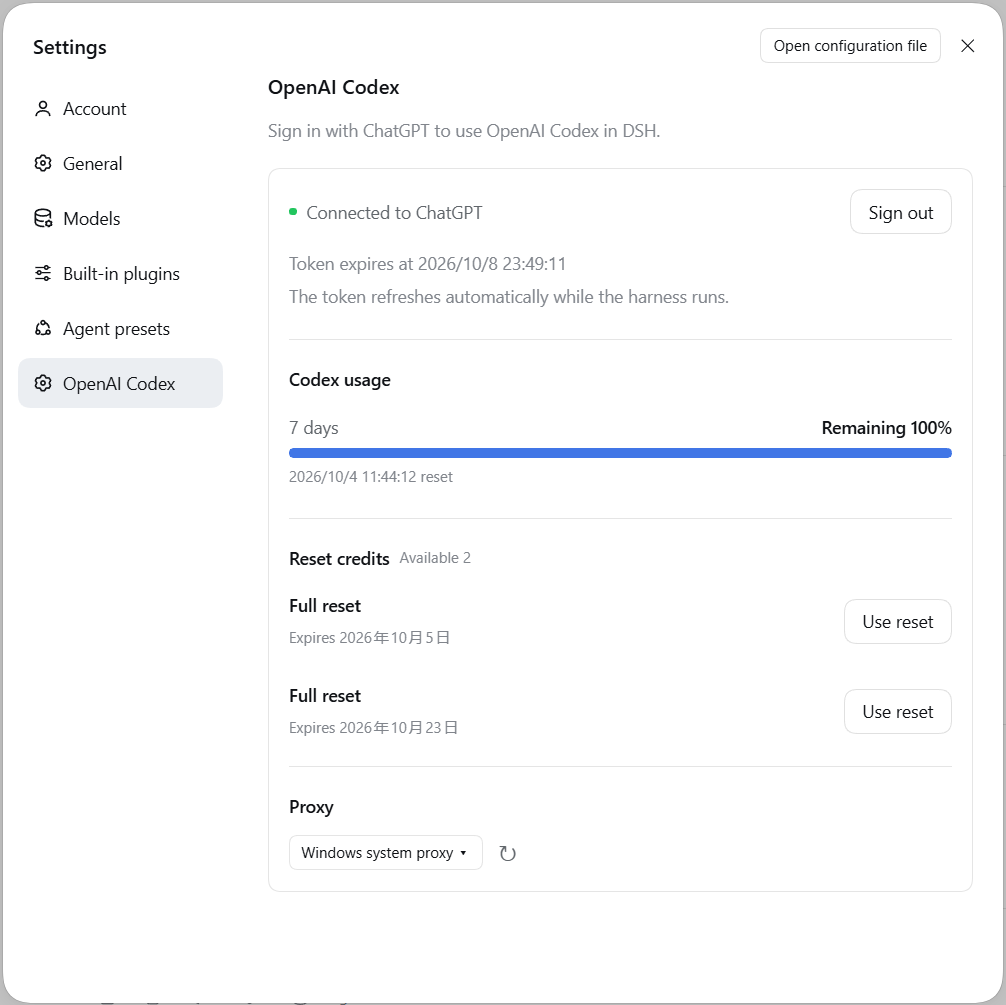
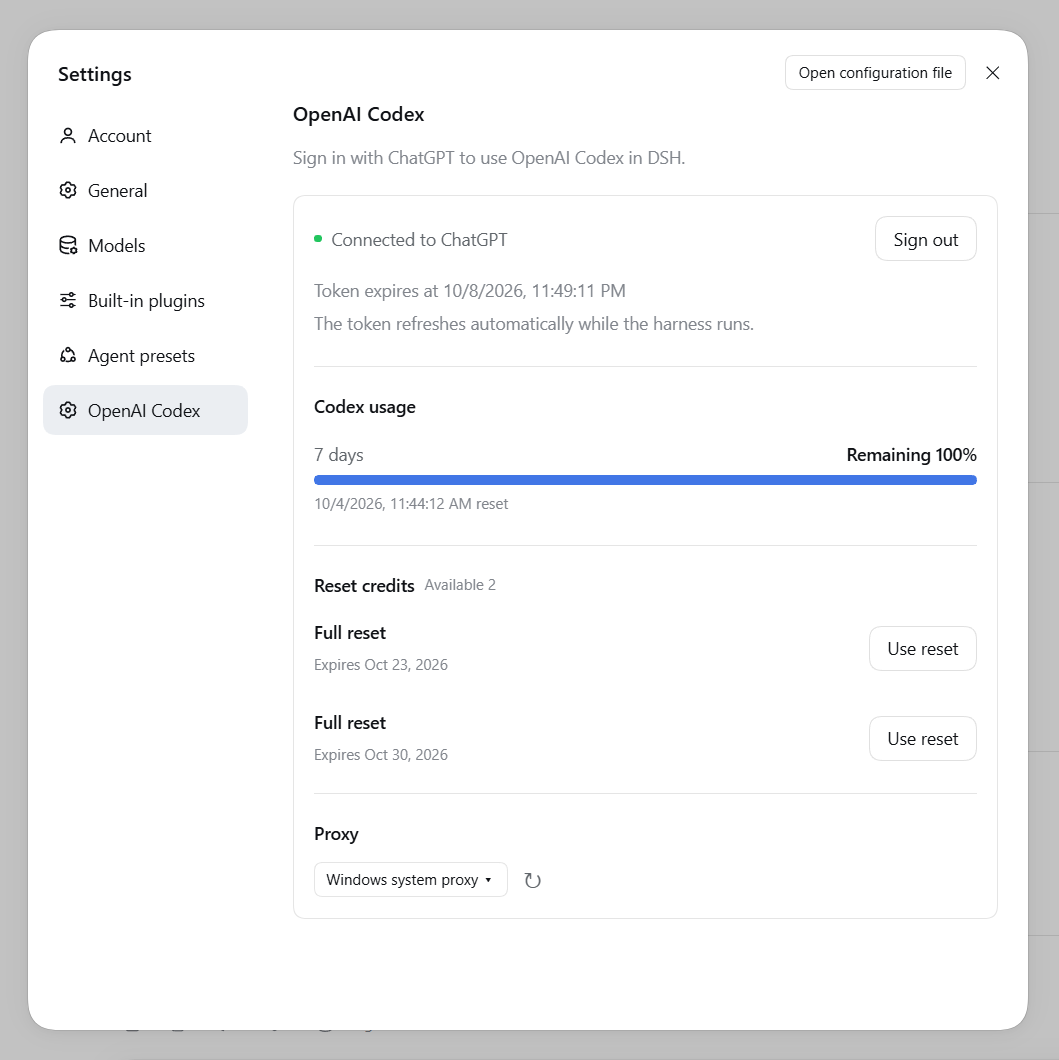
fix: follow UI language when formatting dates

diff --git a/lib/client.js b/lib/client.js
@@ -218,7 +218,7 @@ window.__ModuleLoader__.load({
 			const count = section?.usageResetCredits;
 			const cards = ready ? section.resetCards ?? [] : [];
 			const expiry = (card, compact = false) => card?.expiresAt == null ? t("resetExpiryUnknown") :
-				t("resetExpires") + " " + (compact ? new Date(card.expiresAt).toLocaleDateString(undefined, { year: "numeric", month: "short", day: "numeric" }) : expiryText(card.expiresAt));
+				t("resetExpires") + " " + expiryText(card.expiresAt, t, compact);
 			const confirm = async () => {
 				if (submitting.current || busy || !selected || pending?.legacy) return;
 				submitting.current = true;
@@ -284,10 +284,13 @@ window.__ModuleLoader__.load({
 			] });
 		}
 		/** Formats a stored epoch millis for display, or undefined. */
-		function expiryText(value) {
+		function expiryText(value, t, compact = false) {
 			if (typeof value !== "number" || !Number.isFinite(value) || value <= 0) return void 0;
 			try {
-				return new Date(value).toLocaleString();
+				const locale = t("dateLocale") === "zh-CN" ? "zh-CN" : "en-US";
+				return compact
+					? new Date(value).toLocaleDateString(locale, { year: "numeric", month: "short", day: "numeric" })
+					: new Date(value).toLocaleString(locale);
 			} catch {
 				return String(value);
 			}
@@ -335,7 +338,7 @@ window.__ModuleLoader__.load({
 			const windowLabel = usageWindowText(limit.windowSeconds, t);
 			const label = `${limit.name} · ${windowLabel}`;
 			const remaining = remainingPercent(limit.usedPercent);
-			const resetAt = expiryText(limit.resetAt);
+			const resetAt = expiryText(limit.resetAt, t);
 			return (0, react_jsx_runtime.jsxs)("div", {
 				style: usageLimitStyle,
 				children: [
@@ -514,7 +517,7 @@ window.__ModuleLoader__.load({
 
 			const deviceCode = section === void 0 ? void 0 : section["deviceCode"];
 			const verificationUri = verificationUrl(section === void 0 ? void 0 : section["verificationUri"]);
-			const expiresAt = expiryText(section === void 0 ? void 0 : section["expiresAt"]);
+			const expiresAt = expiryText(section === void 0 ? void 0 : section["expiresAt"], t);
 			const flowError = section === void 0 ? void 0 : section["error"];
 			const hasDeviceCode = typeof deviceCode === "string" && deviceCode.length > 0;
 			const usageLimits = usageLimitsOf(section === void 0 ? void 0 : section["usageLimits"]);
@@ -692,6 +695,7 @@ window.__ModuleLoader__.load({
 
 		/** English strings (the key-set source of truth for this pair). */
 		const en = {
+			dateLocale: "en-US",
 			nav: "OpenAI Codex",
 			title: "OpenAI Codex",
 			intro: "Sign in with ChatGPT to use OpenAI Codex in DSH.",
@@ -773,6 +777,7 @@ window.__ModuleLoader__.load({
 
 		/** Chinese strings (same keys as {@link en}). */
 		const zh = {
+			dateLocale: "zh-CN",
 			nav: "OpenAI Codex",
 			title: "OpenAI Codex",
 			intro: "登录 ChatGPT，在 DSH 中使用 OpenAI Codex。",

diff --git a/README.md b/README.md
@@ -48,7 +48,7 @@ Restart DSH after installing or updating.
 
 ### Windows Desktop
 
-In Desktop's plugin manager, install `dsh-openai-codex-auth@0.6.0`.
+In Desktop's plugin manager, install `dsh-openai-codex-auth@0.6.1`.
 The manager installs into the active Desktop profile and activates the bundle;
 no separate global Node.js, pnpm, or CLI installation is needed.
 If an update requests a restart, restart Desktop before checking the new UI.
@@ -62,7 +62,7 @@ the tray process, before using its bundled CLI from PowerShell:
 
 ```powershell
 $desktopDsh = "$env:LOCALAPPDATA\Programs\DeepSeek Harness\resources\runtime\cli\bin\dsh.cmd"
-& $desktopDsh plugin --profile desktop add dsh-openai-codex-auth@0.6.0
+& $desktopDsh plugin --profile desktop add dsh-openai-codex-auth@0.6.1
 ```
 
 Adjust the path for a custom installation. Do not substitute an npm-installed
@@ -70,7 +70,7 @@ Adjust the path for a custom installation. Do not substitute an npm-installed
 Use the same CLI with `plugin --profile desktop remove dsh-openai-codex-auth`
 to uninstall after fully quitting Desktop.
 
-Plugin `0.6.0` targets DSH `0.2.0-rc.2`. For DSH `0.1.7-rc.2`, use plugin
+Plugin `0.6.1` targets DSH `0.2.0-rc.2`. For DSH `0.1.7-rc.2`, use plugin
 `0.4.2` instead. Do not bypass compatibility checks.
 
 Validation covers isolated installation, the bundled Desktop runtime and Web

diff --git a/README.zh-CN.md b/README.zh-CN.md
@@ -46,7 +46,7 @@ dsh plugin --profile web add dsh-openai-codex-auth
 
 ### Windows 桌面版
 
-在桌面版插件管理器中输入 `dsh-openai-codex-auth@0.6.0` 安装。
+在桌面版插件管理器中输入 `dsh-openai-codex-auth@0.6.1` 安装。
 管理器会安装到当前桌面版 profile 并启用 bundle，无需另外安装全局 Node.js、pnpm 或 CLI。
 如果更新后提示需要重启，请重启桌面版再检查新界面。
 
@@ -59,14 +59,14 @@ dsh plugin --profile web add dsh-openai-codex-auth
 
 ```powershell
 $desktopDsh = "$env:LOCALAPPDATA\Programs\DeepSeek Harness\resources\runtime\cli\bin\dsh.cmd"
-& $desktopDsh plugin --profile desktop add dsh-openai-codex-auth@0.6.0
+& $desktopDsh plugin --profile desktop add dsh-openai-codex-auth@0.6.1
 ```
 
 自定义安装位置需调整路径，不要用 npm 全局安装的 `dsh` 代替该命令。
 重启桌面版后打开“设置 → OpenAI Codex”。卸载时同样先完全退出桌面版，
 再用该 CLI 执行 `plugin --profile desktop remove dsh-openai-codex-auth`。
 
-插件 `0.6.0` 面向 DSH `0.2.0-rc.2`；仍使用 DSH `0.1.7-rc.2` 的用户
+插件 `0.6.1` 面向 DSH `0.2.0-rc.2`；仍使用 DSH `0.1.7-rc.2` 的用户
 请安装插件 `0.4.2`。不要绕过兼容性检查。
 
 已验证隔离安装、桌面内置运行时及 Web 设置页/状态接口；
